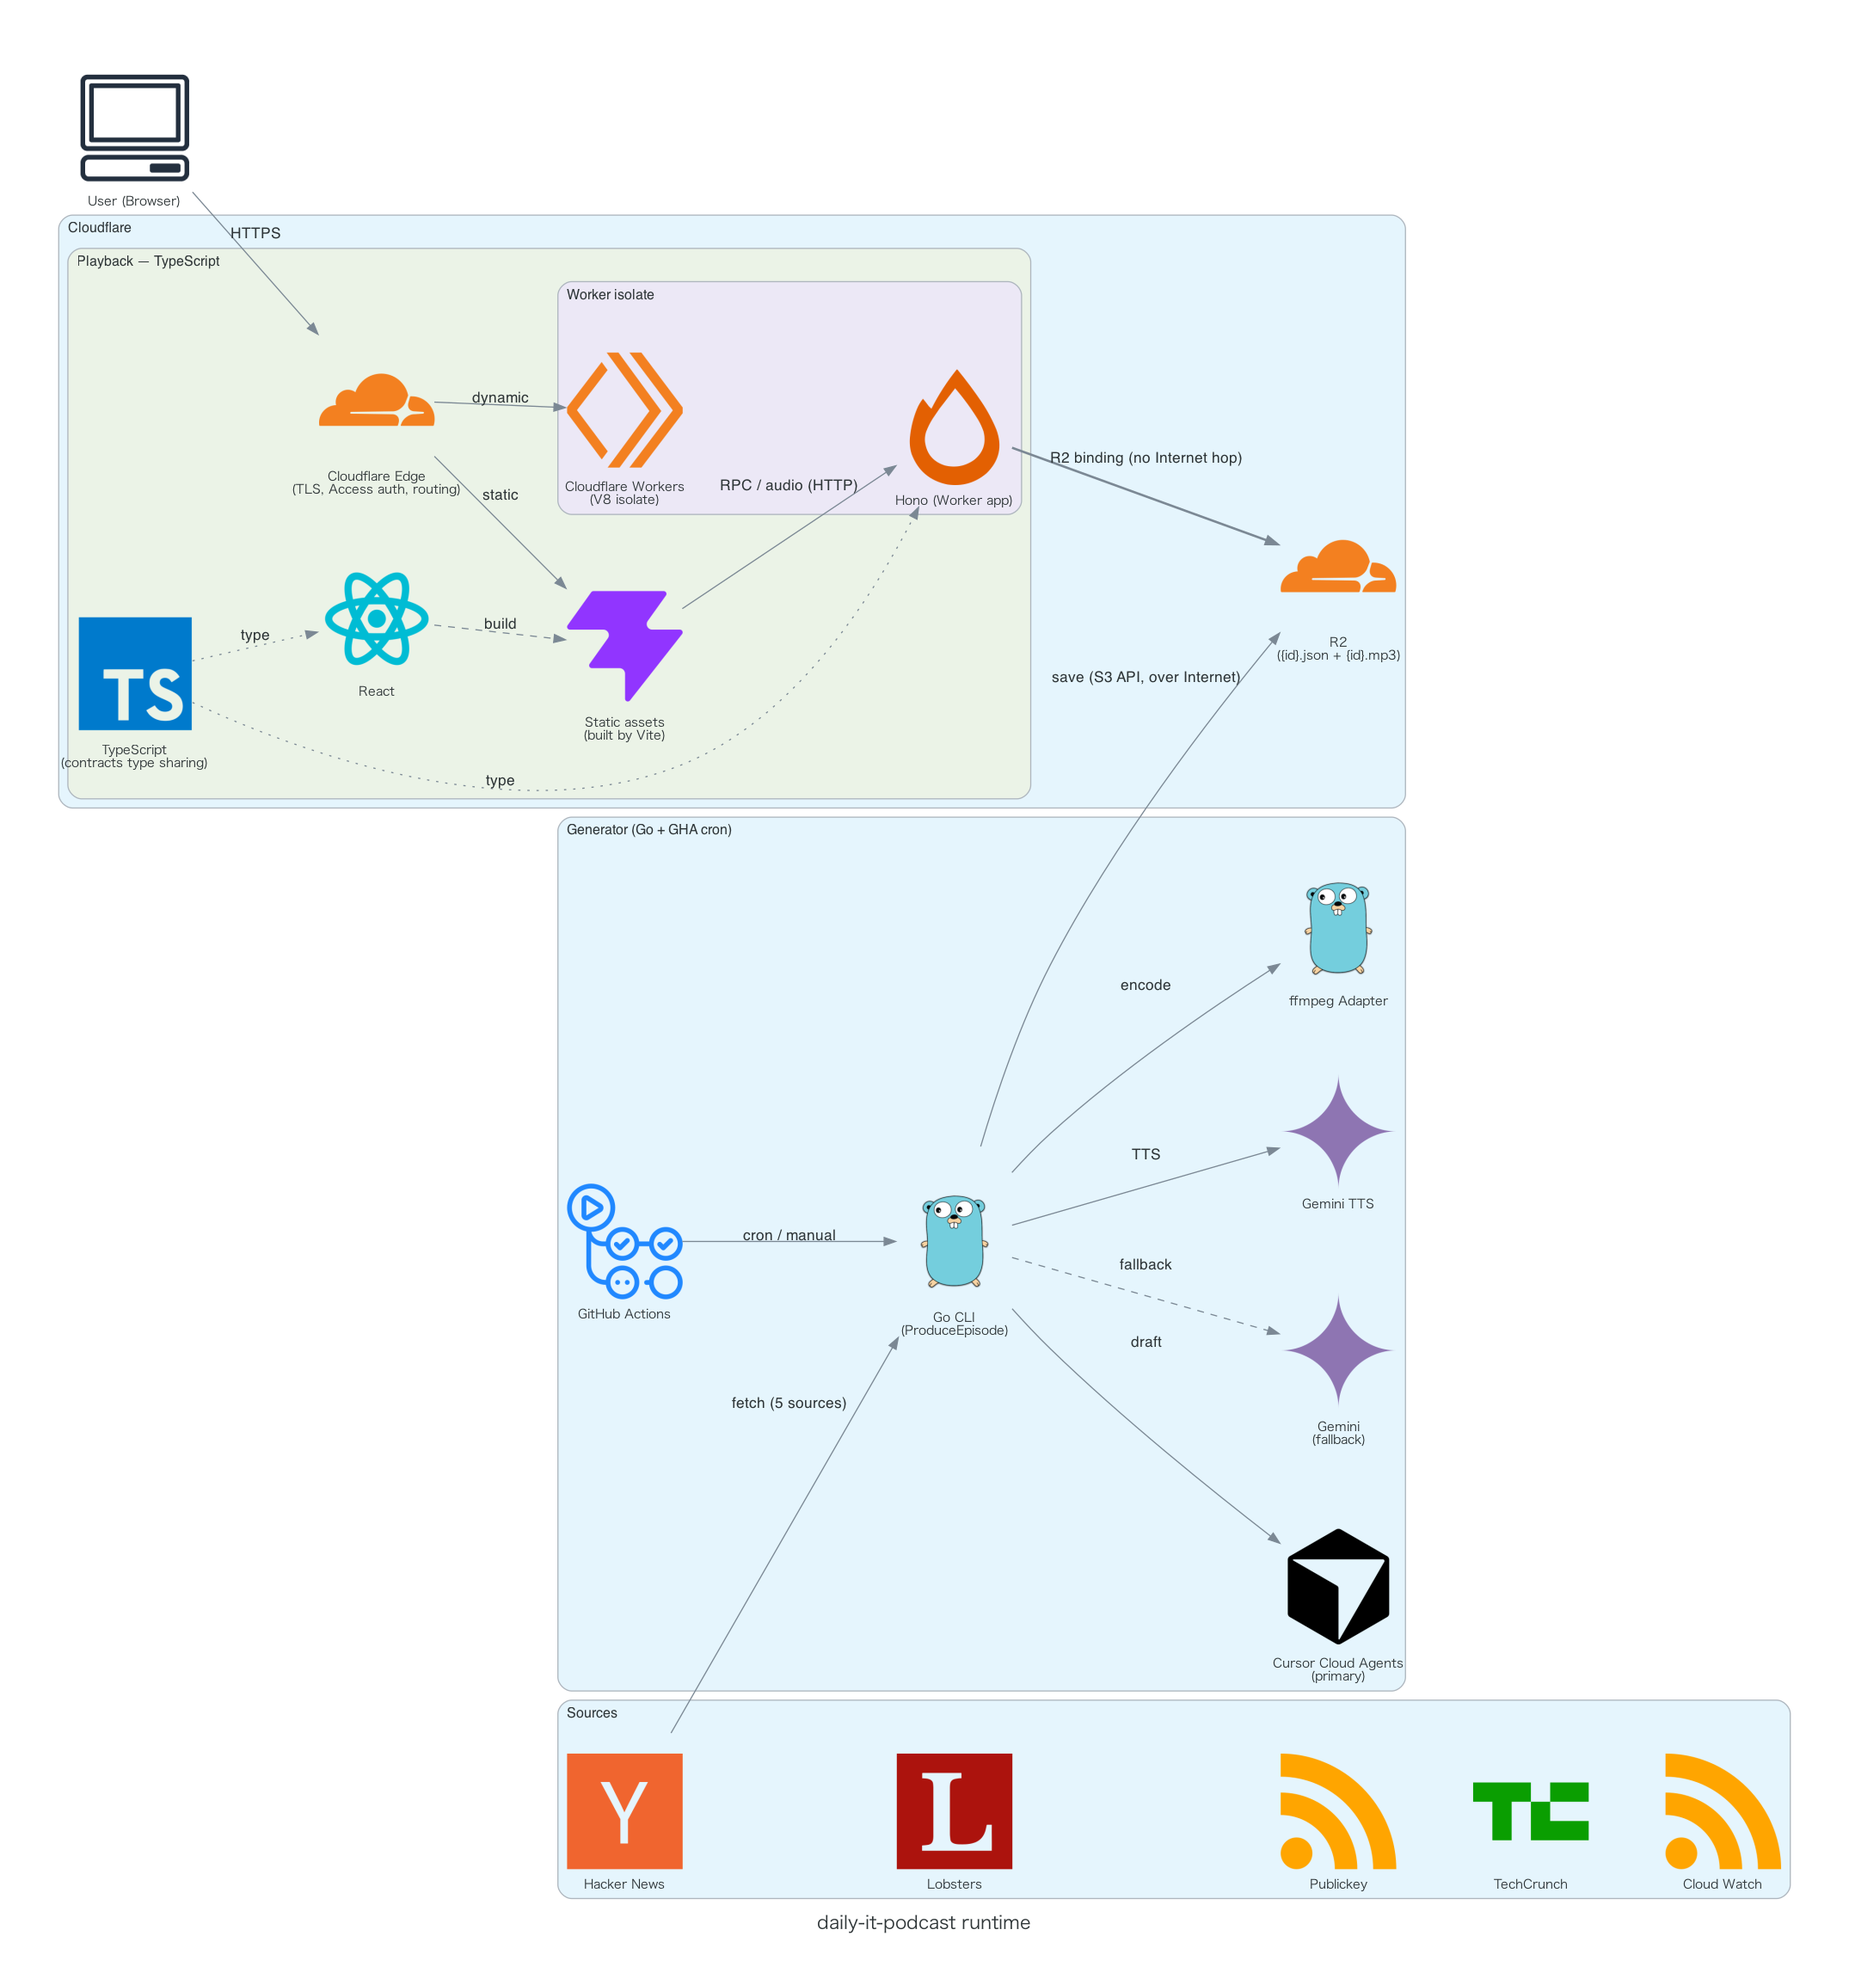
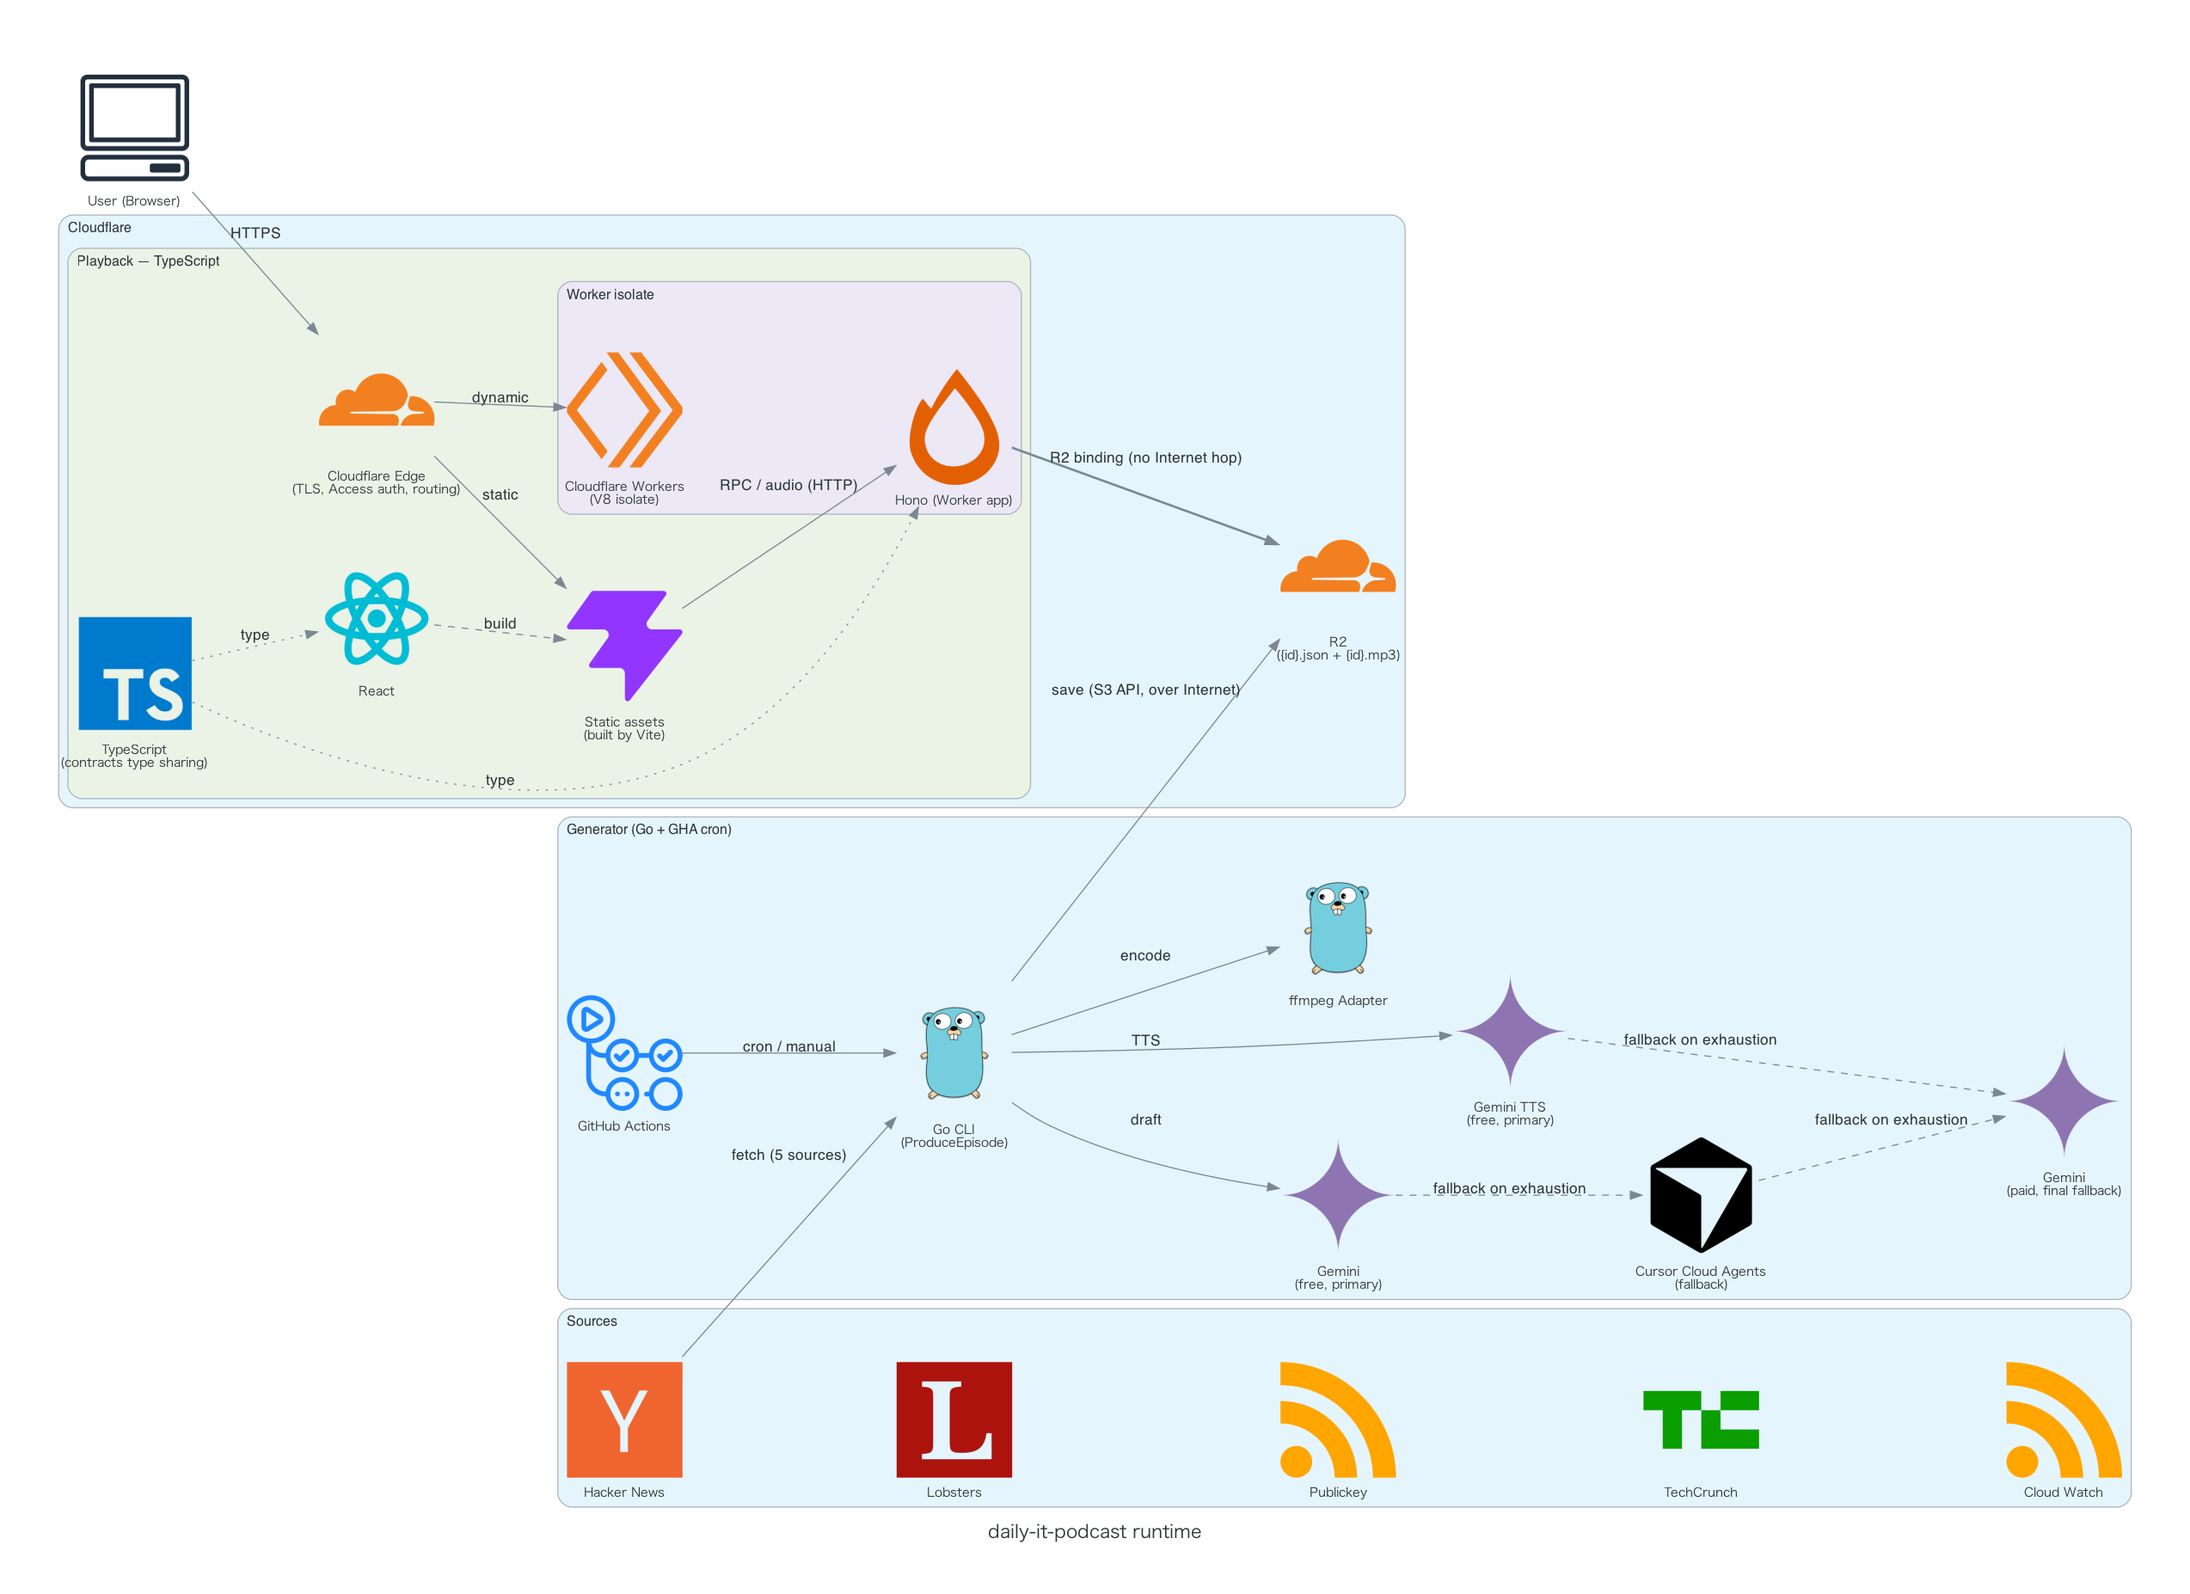
docs(diagrams): runtime構成図をTextWriter/TTS fallback連鎖へ更新する
原稿・TTSのmodel切り替えfallback機構実装（Decision 2026-09-16T00-39-21）が、code-first runtime構成図に反映されていなかった。Cursor primary→Gemini fallbackの旧経路図を、Gemini free primary→Cursor→Gemini paid finalの3段（TextWriter）、Gemini free→Gemini paid finalの2段（TTS）へ更新した。

diff --git a/apps/diagrams/runtime.py b/apps/diagrams/runtime.py
@@ -123,11 +123,15 @@ def render() -> Path:
         with Cluster("Generator (Go + GHA cron)"):
             actions = Custom("GitHub Actions", gha_icon)
             go_cli = Go("Go CLI\n(ProduceEpisode)")
-            # why: 原稿は Cursor Cloud Agents が第一経路。枯渇時は Gemini へ fallback する
-            #   （text_writer fallback）。どちらも「原稿」を作るので両方を原稿経路として描く。
-            cursor_api = Custom("Cursor Cloud Agents\n(primary)", cursor_icon)
-            gemini_text = Custom("Gemini\n(fallback)", gemini_icon)
-            gemini_tts = Custom("Gemini TTS", gemini_icon)
+            # why: 原稿は Gemini free 枠が第一経路。枯渇時は Cursor Cloud Agents へ、
+            #   さらに枯渇したら Gemini paid 枠（SPARE_GEMINI_API_KEY）へ fallback する
+            #   （Decision 2026-09-16T00-39-21）。TTS も同じ Gemini free→paid の 2 段。
+            #   Gemini node は primary（free）と Spare（paid, final fallback）で 2 role を持つため
+            #   1 node に統合し、fallback 方向を dashed edge で示す。
+            gemini_text = Custom("Gemini\n(free, primary)", gemini_icon)
+            cursor_api = Custom("Cursor Cloud Agents\n(fallback)", cursor_icon)
+            gemini_spare = Custom("Gemini\n(paid, final fallback)", gemini_icon)
+            gemini_tts = Custom("Gemini TTS\n(free, primary)", gemini_icon)
             ffmpeg = Go("ffmpeg Adapter")
 
         # why: R2 は Workers isolate の外（Cloudflare 側が持つ独立した storage service）。
@@ -164,9 +168,14 @@ def render() -> Path:
         #   内訳は Sources Cluster の node 名で示す。
         hn >> Edge(label="fetch (5 sources)") >> go_cli
         actions >> Edge(label="cron / manual") >> go_cli
-        go_cli >> Edge(label="draft") >> cursor_api
-        go_cli >> Edge(label="fallback", style="dashed") >> gemini_text
+        # why: 原稿 fallback は Gemini free → Cursor → Gemini paid の 3 段（Decision 2026-09-16T00-39-21）。
+        go_cli >> Edge(label="draft") >> gemini_text
+        gemini_text >> Edge(label="fallback on exhaustion", style="dashed") >> cursor_api
+        cursor_api >> Edge(label="fallback on exhaustion", style="dashed") >> gemini_spare
+        # why: TTS fallback は Gemini free → Gemini paid の 2 段。TextWriter 側と同じ
+        #   SPARE_GEMINI_API_KEY を使うため fallback 先の node（gemini_spare）を共有する。
         go_cli >> Edge(label="TTS") >> gemini_tts
+        gemini_tts >> Edge(label="fallback on exhaustion", style="dashed") >> gemini_spare
         go_cli >> Edge(label="encode") >> ffmpeg
         go_cli >> Edge(label="save (S3 API, over Internet)") >> r2
 
